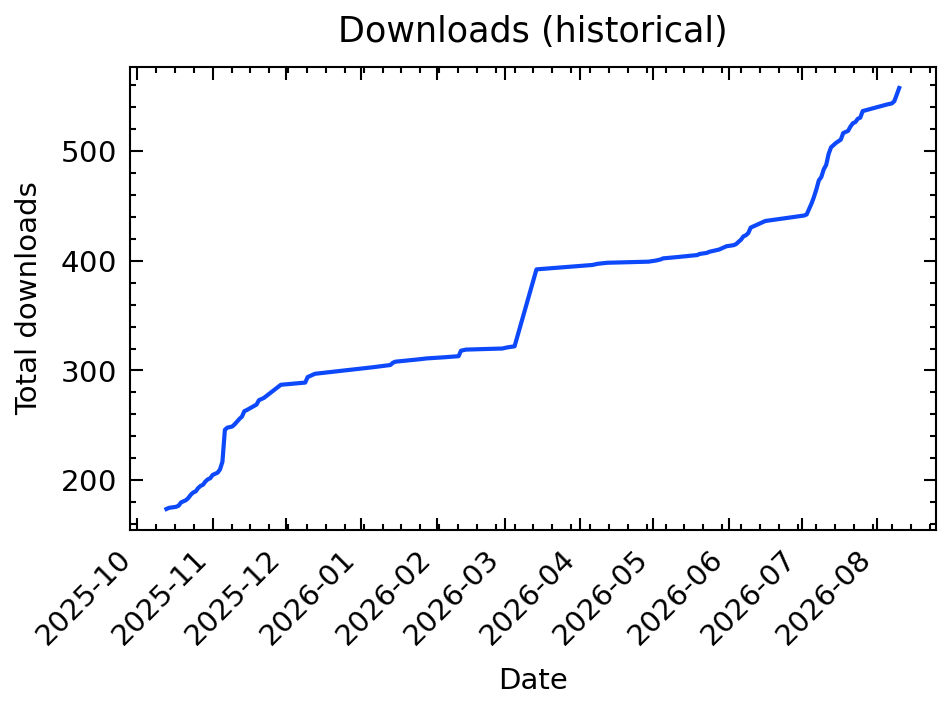
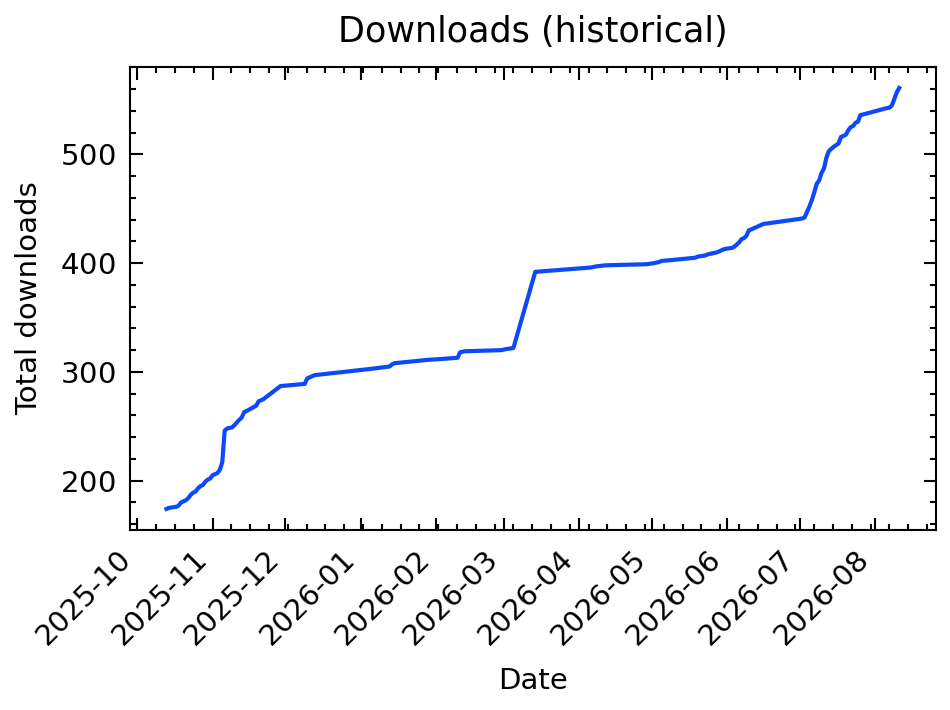
Updated Metrics data

diff --git a/README.md b/README.md
@@ -4,7 +4,7 @@
 SciWIn-Client helps users creating **Computational Workflows** in CWL. Detailed Information about SciWIn-Client can be found in the [GitHub Repository](https://github.com/fairagro/sciwin). The Metrics shown below have been calculated using the GitHub API. Presentation is done via a CWL Workflow and the scripts in this repository.
 
 ## Downloads by Version
-SciWIn-Client currently has about 557 overall downloads across all versions and operating systems. The lastest version v1.2.2 currently has 10 downloads.
+SciWIn-Client currently has about 561 overall downloads across all versions and operating systems. The lastest version v1.2.2 currently has 10 downloads.
 
 
 ![downloads by version](release.png)
@@ -13,7 +13,7 @@ SciWIn-Client currently has about 557 overall downloads across all versions and 
 | Version | Downloads |
 |---------|-----------|
 | v1.2.2 | 10|
-| v1.2.1 | 8|
+| v1.2.1 | 10|
 | v1.2.0 | 53|
 | v1.1.0 | 52|
 | v1.0.0 | 99|
@@ -25,13 +25,13 @@ SciWIn-Client currently has about 557 overall downloads across all versions and 
 | v0.5.1 | 24|
 | v0.5.0 | 22|
 | v0.4.0 | 23|
-| v0.3.0 | 36|
+| v0.3.0 | 38|
 | v0.2.0 | 28|
 | v0.1.0 | 57|
 
 
 ## Downloads by Operating System
-SciWIn-Client is used on all major operating systems. There are 261 downloads of the Linux executable, 125 downloads of the Windows executable and 171 downloads of the Mac OS executable.
+SciWIn-Client is used on all major operating systems. There are 263 downloads of the Linux executable, 125 downloads of the Windows executable and 173 downloads of the Mac OS executable.
 
 
 ![downloads by platform](platform.png)
@@ -40,14 +40,14 @@ SciWIn-Client is used on all major operating systems. There are 261 downloads of
 | Platform | Downloads |
 |---------|-----------|
 | MacOS (ARM) | 93|
-| Linux (ARM) | 75|
-| MacOS (x64) | 78|
+| Linux (ARM) | 76|
+| MacOS (x64) | 80|
 | Windows (x64) | 125|
-| Linux (x64) | 186|
+| Linux (x64) | 187|
 
 
 ## Historical Download Chart
-The historical download chart can be viewed below. It is shown how the 557 overall downloads progressed over time by using the commited data of this repository.
+The historical download chart can be viewed below. It is shown how the 561 overall downloads progressed over time by using the commited data of this repository.
 
 
 ![downloads by date](history.png)
